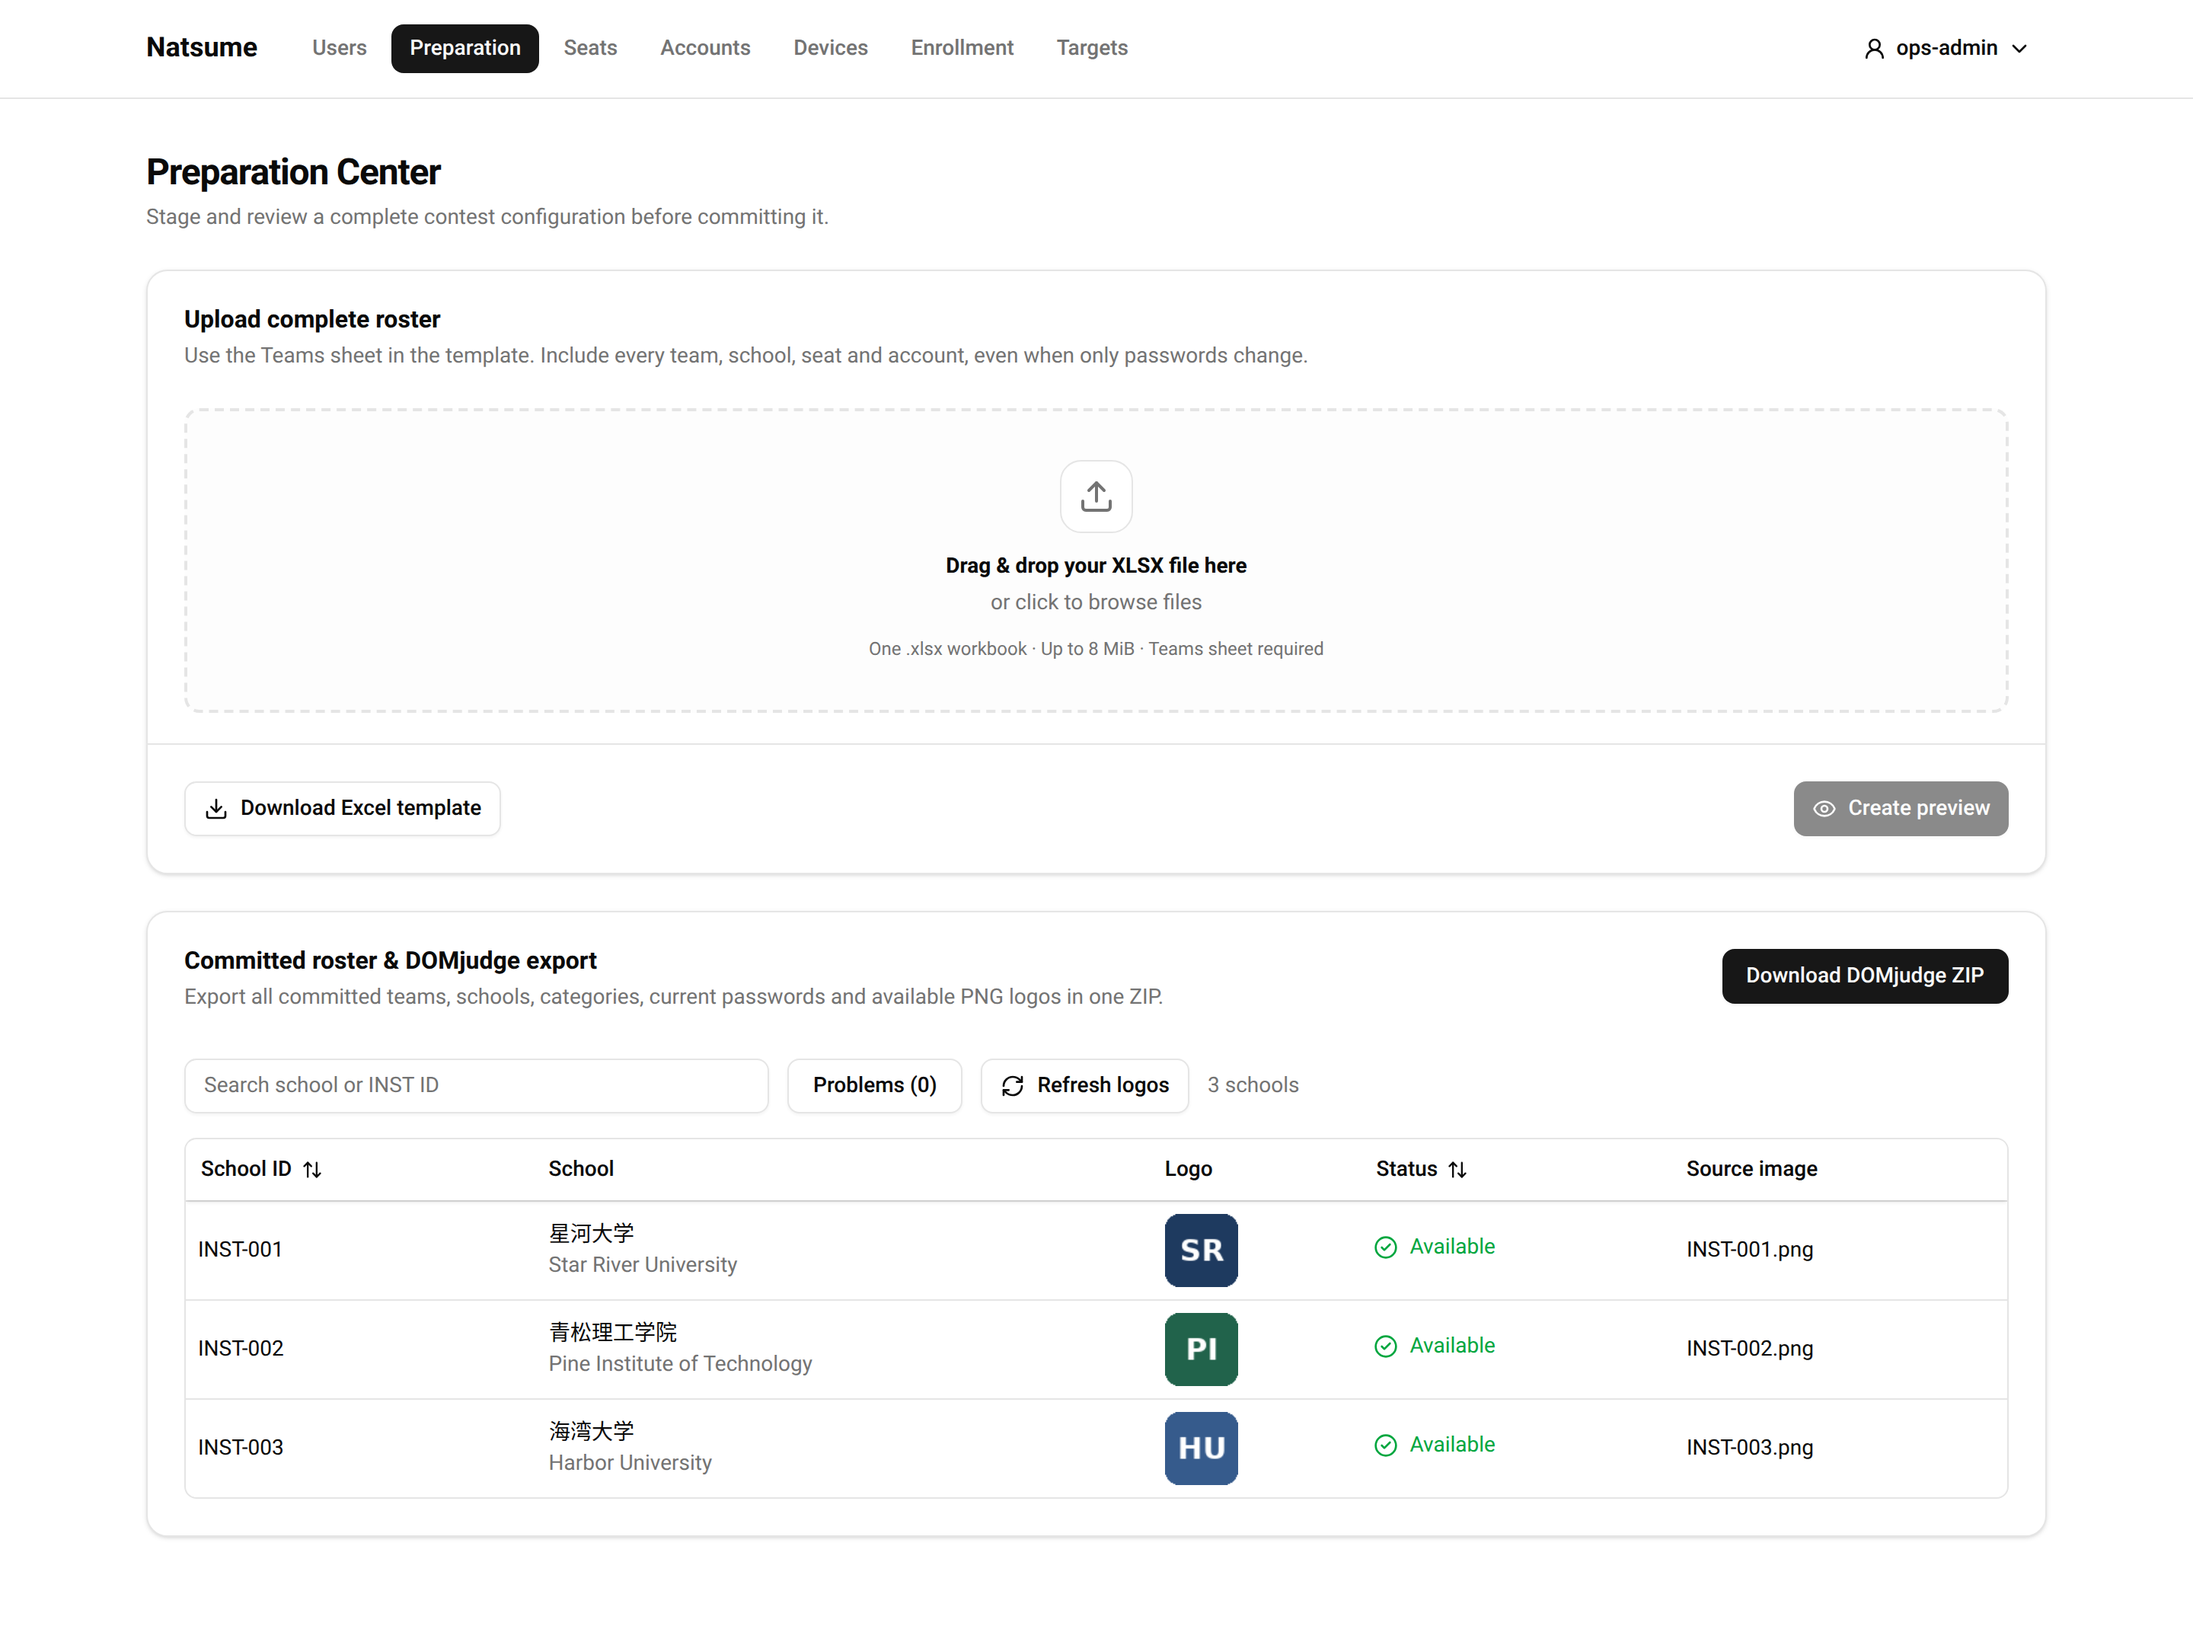
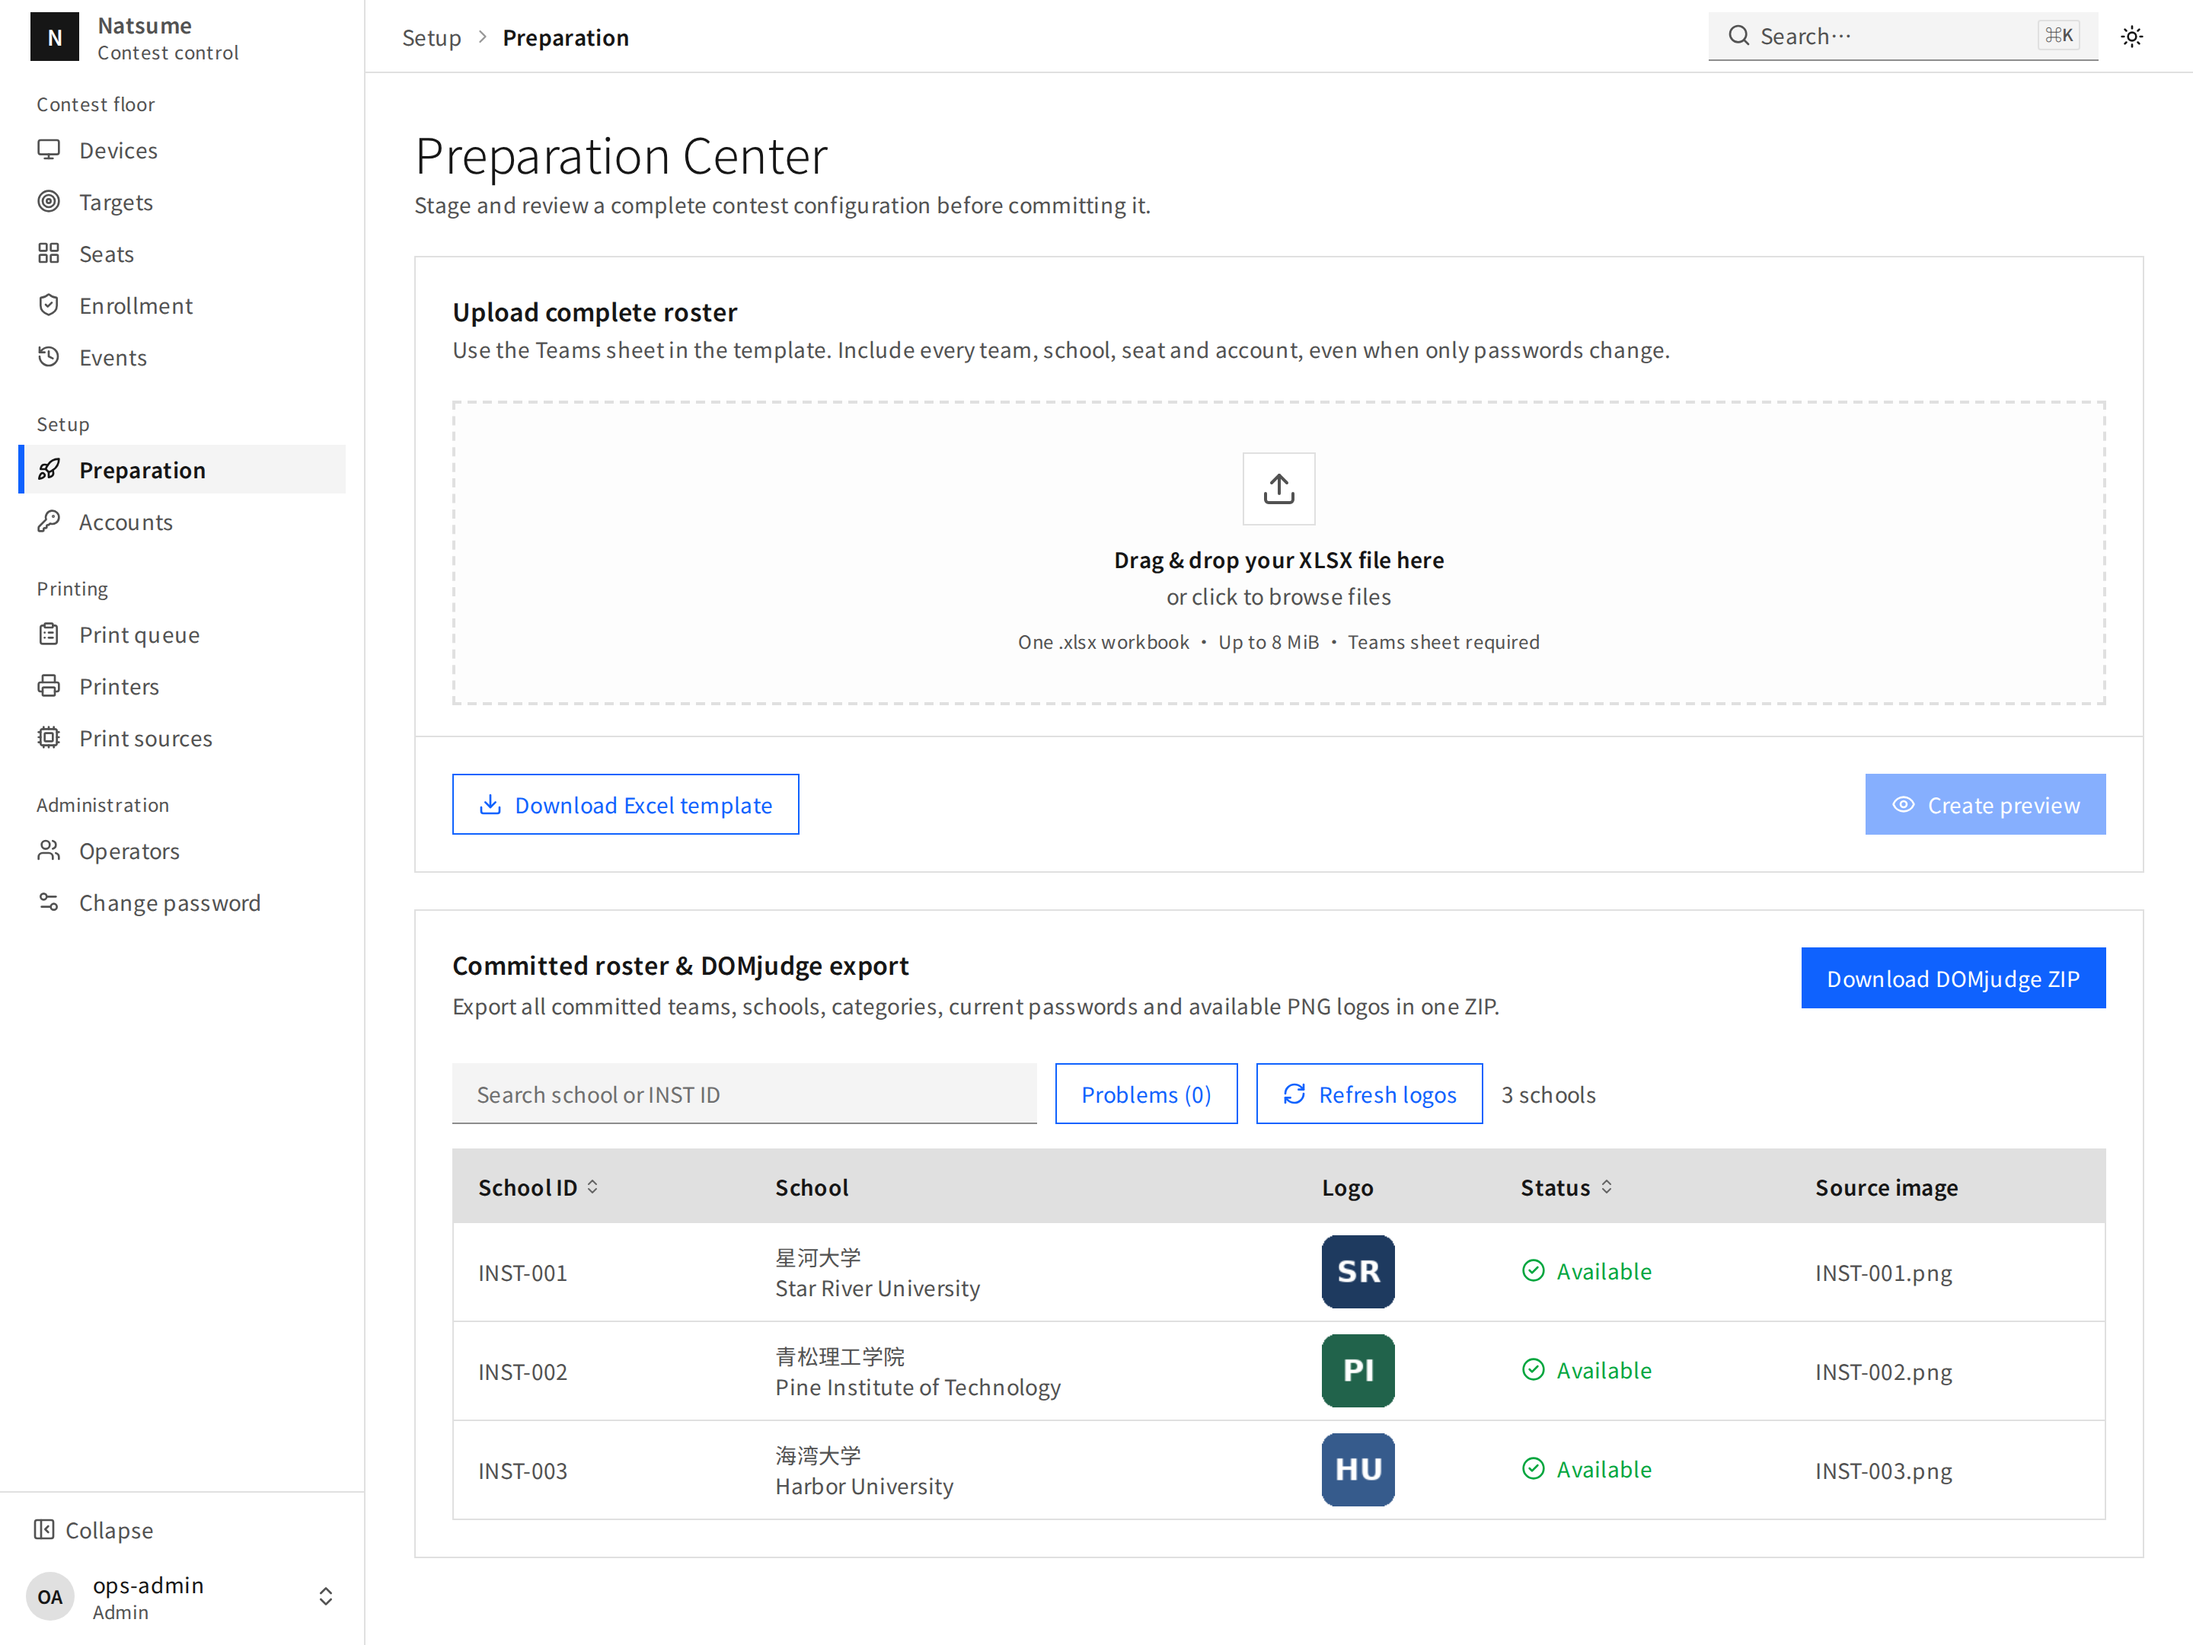
docs(gallery): refresh screenshots for redesigned web panel

diff --git a/docs/screenshots/README.md b/docs/screenshots/README.md
@@ -6,7 +6,7 @@ The root [feature gallery](../../README.md#feature-gallery) shows seven current 
 
 - Keep every PNG at **2880 × 2160**: a logical **1440 × 1080** interface rendered at **2×** scale.
 - Capture the actual current UI. Do not redraw it, override its layout, resize an old screenshot, crop it, or stretch it to fit the gallery.
-- Keep the root gallery as one equal-column table. Update its captions and image links when pages or responsibilities change; Bindings is now part of Devices, not a separate gallery page.
+- Keep the root gallery as one equal-column table. Update its captions and image links when pages or responsibilities change.
 - Use synthetic accounts, teams, schools, devices, invitations, and network addresses. Never capture real contest data, passwords, invitation/reset bearer links, or an existing personal desktop.
 
 ## Web panel
@@ -20,7 +20,7 @@ node web/scripts/capture-gallery.mjs
 
 The opt-in [capture helper](../../web/scripts/capture-gallery.mjs) serves the production build on its own ephemeral loopback port, opens a fresh Chromium context, and intercepts API calls with schema-typed fixtures. It does not start or contact Server. It uses a fixed clock, light theme, English locale, UTC timezone, and the capture geometry above; unknown API calls, writes, external requests, page errors, loading states, and horizontal overflow fail the capture. Browser and preview resources are closed afterward.
 
-The helper refreshes `preparation.png`, `enrollment.png`, `accounts.png`, `seats.png`, `devices.png`, `targets.png`, and `users.png`. The fixtures intentionally include bound/unbound seats, active/offline/disabled devices, a closed enrollment window with pending reviews, and administrator/viewer accounts without exposing issued links. Device bindings, Unbind actions, lifecycle/connection/binding facets, and the compact Emergency tool are shown on Devices. System fonts and browser versions may affect pixels on another machine.
+The helper refreshes `preparation.png`, `enrollment.png`, `accounts.png`, `seats.png`, `devices.png`, `targets.png`, and `users.png`. The fixtures include bound/unbound seats, active/offline/disabled devices, connection-history summaries, a closed enrollment window with pending reviews, and administrator/viewer accounts without exposing issued links. Seats shows the default map and binding coverage. Devices shows seat bindings, convergence indicators, last-seen times, disconnect counts, row action menus, lifecycle/connection/binding filters, and the Emergency tool. The `users.png` capture opens the Operators navigation entry. System fonts and browser versions may affect pixels on another machine.
 
 ## Native Session Agent previews
 

diff --git a/README.md b/README.md
@@ -52,14 +52,14 @@ The seven Web views below show the current production panel with synthetic API f
   </tr>
   <tr>
     <td width="33.33%" align="center" valign="top">
-      <a href="docs/screenshots/seats.png"><img src="docs/screenshots/seats.png" alt="Seats: Review assignments and spot unbound seats." width="288"></a><br>
+      <a href="docs/screenshots/seats.png"><img src="docs/screenshots/seats.png" alt="Seats: View the seat map, binding coverage, and seats that need a device." width="288"></a><br>
       <strong>Seats</strong><br>
-      Review assignments and spot unbound seats.
+      View the seat map, binding coverage, and seats that need a device.
     </td>
     <td width="33.33%" align="center" valign="top">
-      <a href="docs/screenshots/devices.png"><img src="docs/screenshots/devices.png" alt="Devices: Filter lifecycle, connection, and bindings; unbind devices in place." width="288"></a><br>
+      <a href="docs/screenshots/devices.png"><img src="docs/screenshots/devices.png" alt="Devices: Filter devices and inspect seat bindings, convergence, and connection history." width="288"></a><br>
       <strong>Devices</strong><br>
-      Filter lifecycle, connection, and bindings; unbind devices in place.
+      Filter devices and inspect seat bindings, convergence, and connection history.
     </td>
     <td width="33.33%" align="center" valign="top">
       <a href="docs/screenshots/targets.png"><img src="docs/screenshots/targets.png" alt="Targets: Set Session and Home targets and request confirmed shutdown." width="288"></a><br>
